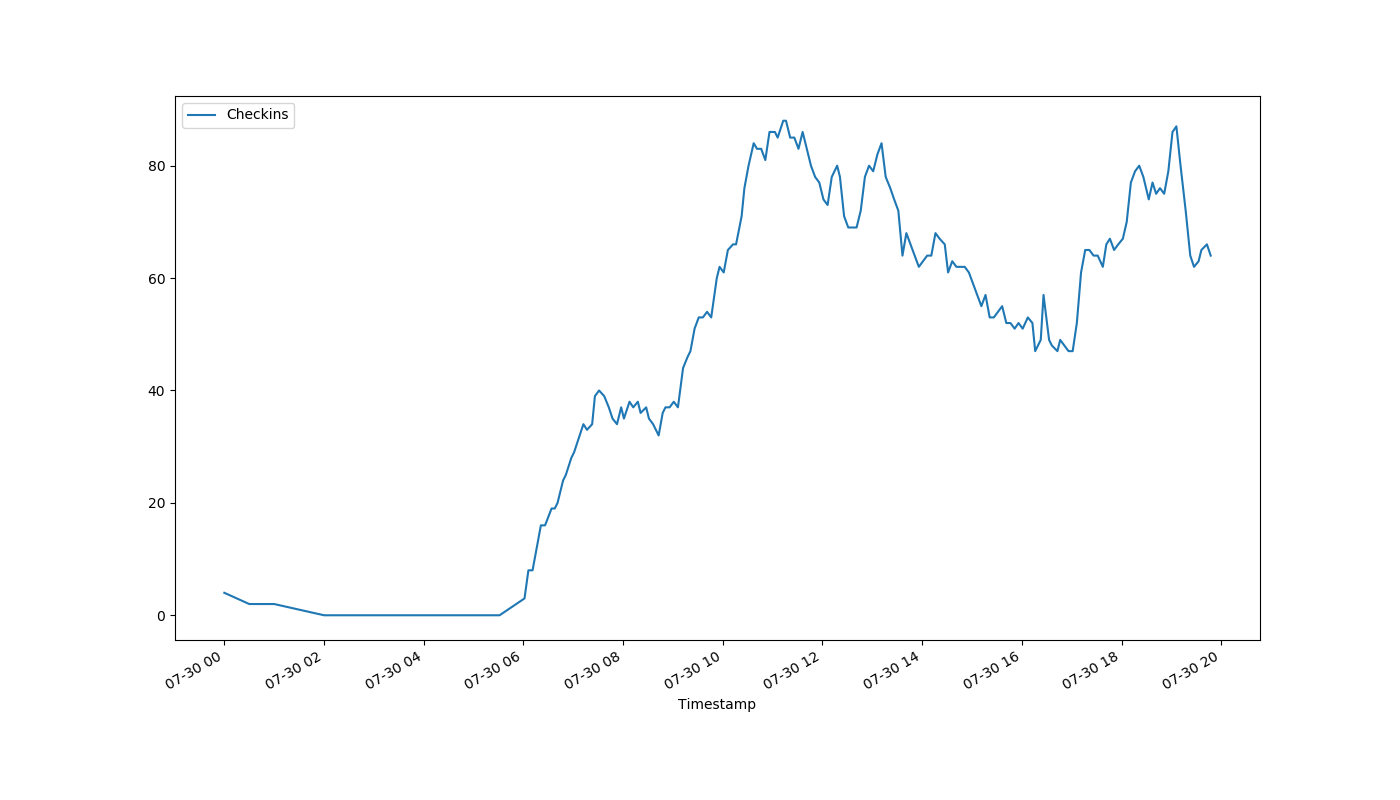
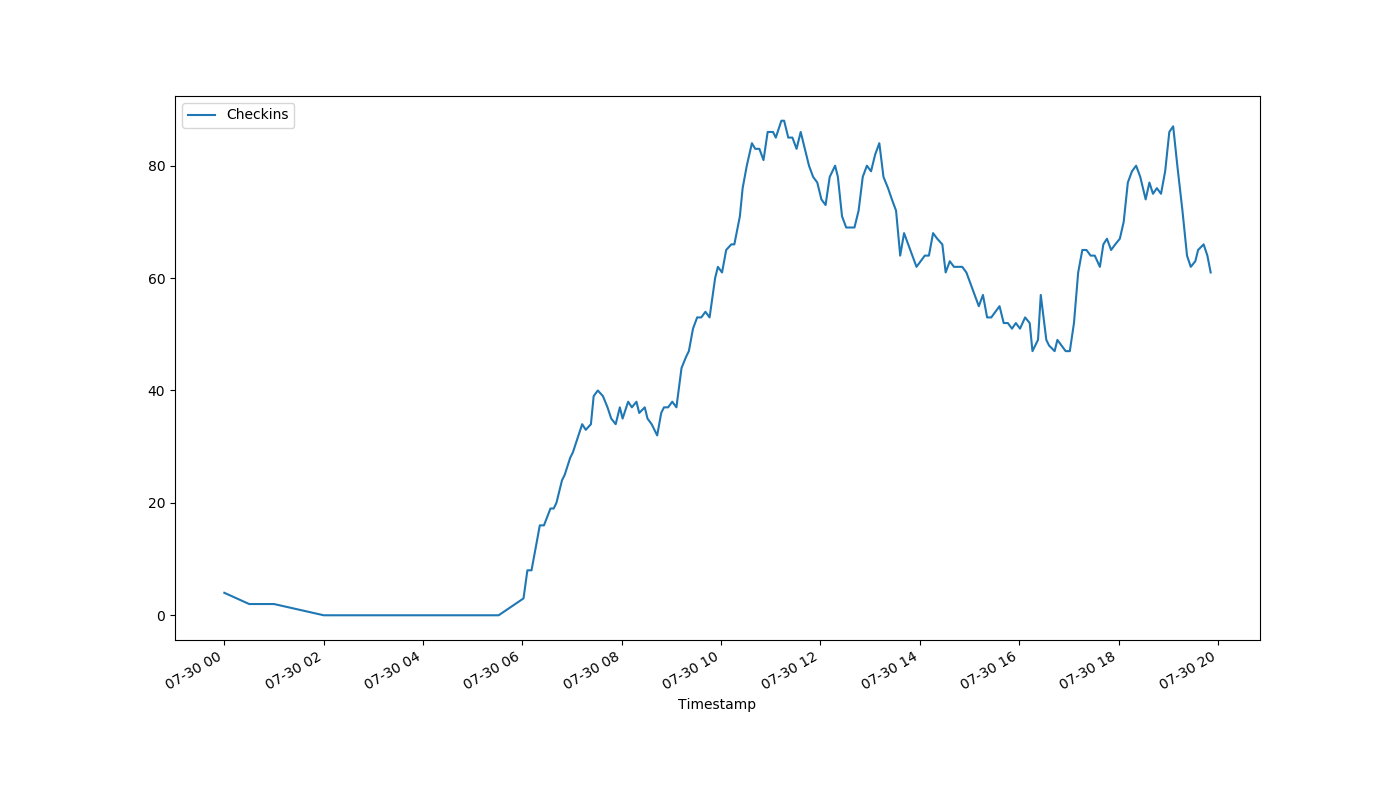
auto-Jul-30-19:53:31

diff --git a/index.html b/index.html
@@ -1,1 +1,1 @@
-<!DOCTYPE html><html><head><meta http-equiv="refresh" content="30"><link rel='stylesheet' href='holmcurrent.css'></head><body><p id='count'>64</p><div id='graph-wrap'><img id='graph' src='holmgraph-Jul-30.png'></div><p id='updated'>Last updated 19:48:11 / 19:47:17</p></body></html>
+<!DOCTYPE html><html><head><meta http-equiv="refresh" content="30"><link rel='stylesheet' href='holmcurrent.css'></head><body><p id='count'>61</p><div id='graph-wrap'><img id='graph' src='holmgraph-Jul-30.png'></div><p id='updated'>Last updated 19:52:12 / 19:51:17</p></body></html>
